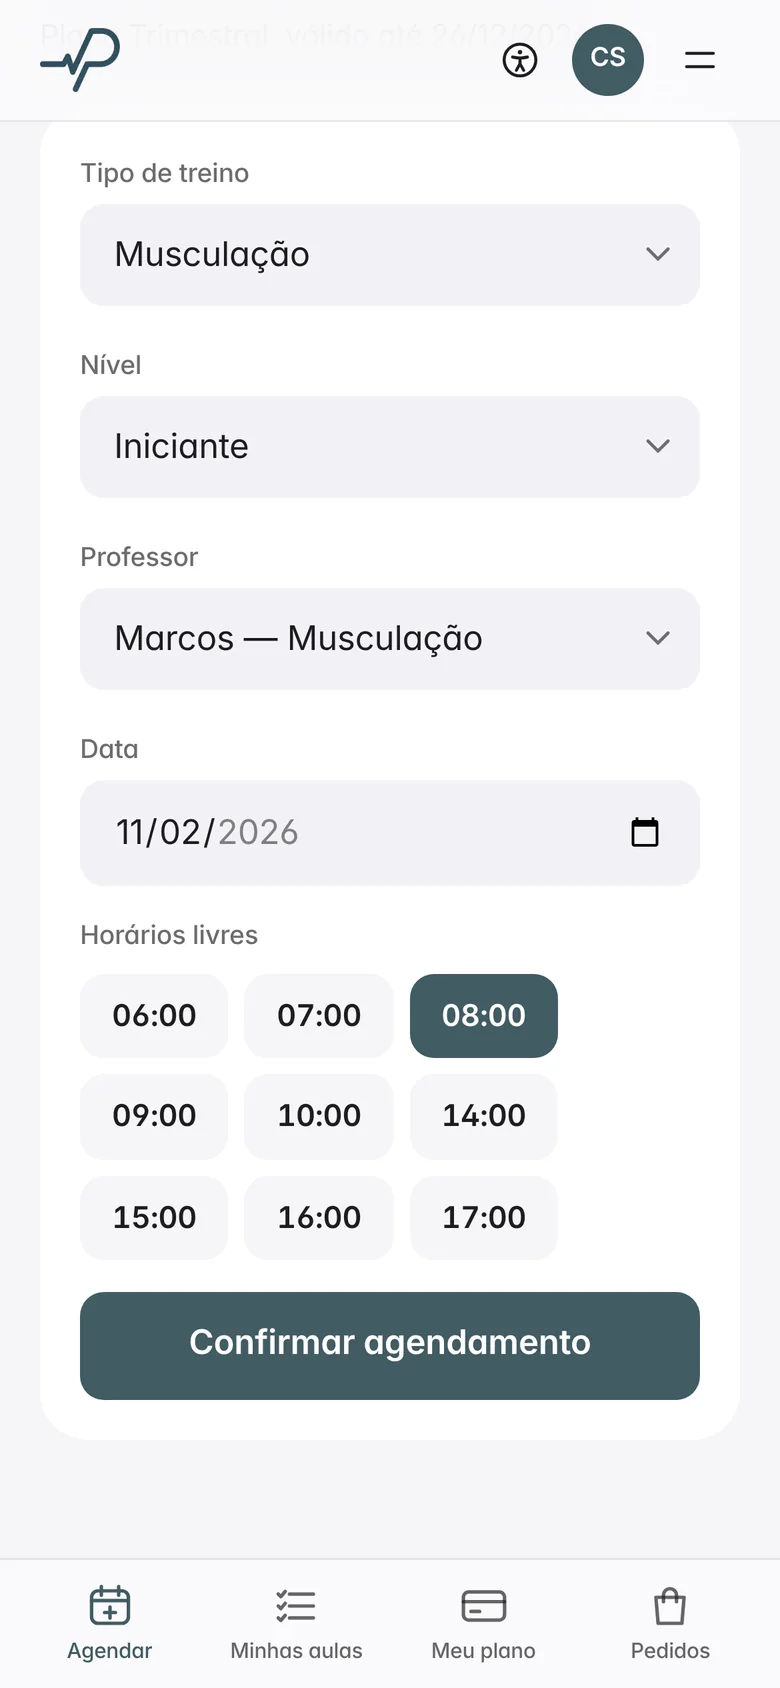
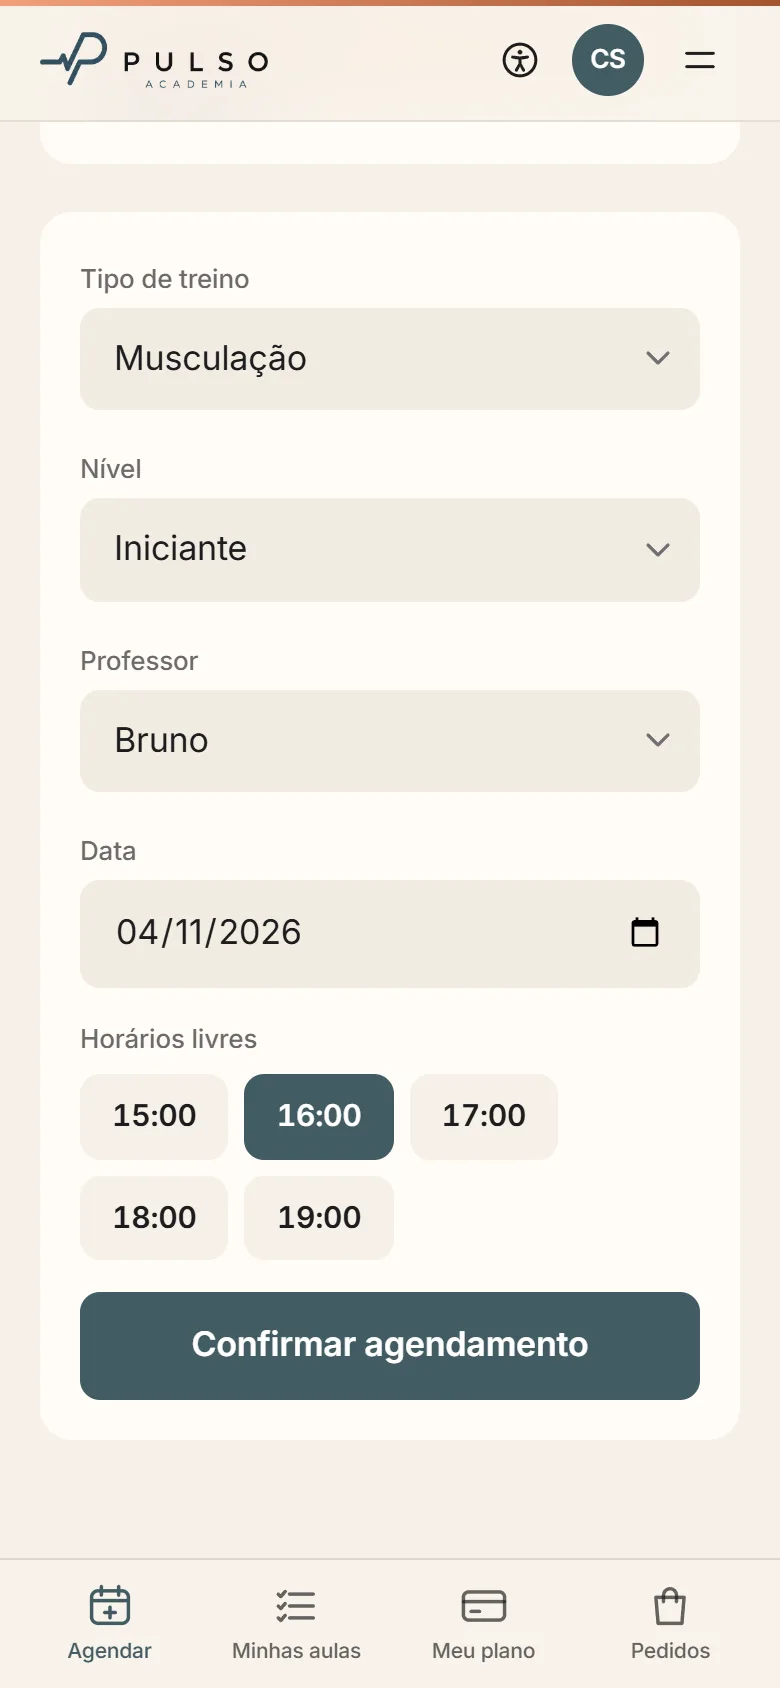
Cores com ritmo de seções e prints novos da Pulso

diff --git a/css/style.css b/css/style.css
@@ -9,23 +9,27 @@
      6. Acessibilidade (movimento reduzido)
    ========================================================= */
 
-/* Layout: página escura de produto (estilo Apple Pro), coluna central de 1120px,
-   seções longas separadas por ar; a chama azul é o único elemento colorido forte. */
+/* Layout: coluna central de 1120px e cor com ritmo: cada seção pinta o próprio fundo
+   (marinho, gelo, azul da marca) para a página não ficar "toda preta" ou "toda branca".
+   Cada tom é só um conjunto de variáveis; os componentes são os mesmos em todas as seções. */
 :root {
   color-scheme: dark;
-  --fundo: #05070D;        /* quase preto azulado, como o quadro da marca */
-  --superficie: #0C111C;   /* cartões e painéis */
-  --superficie-2: #121A2A;
-  --linha: rgba(150, 180, 255, 0.12);
+  --fundo: #0A1222;        /* marinho (no lugar do preto) */
+  --fundo-alt: #0F1A31;
+  --superficie: #14213B;   /* cartões e painéis */
+  --superficie-2: #1B2A48;
+  --linha: rgba(140, 175, 255, 0.16);
   --texto: #F2F5FA;
-  --texto-2: #A3AFC2;      /* secundário: 8,4:1 sobre o fundo */
+  --texto-2: #A9B6CC;      /* secundário: 9,1:1 sobre o fundo */
   --azul: #1D63E0;         /* azul royal da chama; com texto branco passa no contraste AA */
-  --azul-claro: #5FB4FF;   /* texto/links azuis sobre o escuro */
+  --azul-claro: #6CB6FF;   /* texto/links azuis sobre o escuro */
+  --azul-tinta: rgba(60, 140, 255, 0.14);
+  --brilho-abertura: radial-gradient(120% 75% at 50% -12%, #1E4AA8 0%, #142C63 34%, rgba(20, 44, 99, 0) 72%);
   --ciano: #3CC8FF;
   --brasa: #FF8A3D;        /* versão secundária (laranja) da marca, usada só em um detalhe */
   --ok: #7EE0A7;
-  --topo-fundo: rgba(5, 7, 13, 0.72);
-  --topo-fundo-forte: rgba(5, 7, 13, 0.82);
+  --topo-fundo: rgba(10, 18, 34, 0.72);
+  --topo-fundo-forte: rgba(10, 18, 34, 0.85);
   --botao-2: rgba(255, 255, 255, 0.08);
   --borda-campo: transparent;
   --midia-celulares: linear-gradient(160deg, #13203A, #0A1020);
@@ -40,20 +44,23 @@
 }
 
 /* Tema claro: o js/tema.js coloca data-tema="claro" no <html> (escolha salva ou tema do sistema).
-   Contraste AA: texto-2 7,5:1 e azul dos links 6,4:1 sobre o branco. */
+   Contraste AA: texto-2 7,2:1 e azul dos links 5,7:1 sobre o branco-gelo. */
 :root[data-tema="claro"] {
   color-scheme: light;
-  --fundo: #FFFFFF;
-  --superficie: #F3F5F9;
-  --superficie-2: #FFFFFF;
+  --fundo: #F5F8FD;        /* branco-gelo (no lugar do branco puro) */
+  --fundo-alt: #E9EFFA;
+  --superficie: #FFFFFF;
+  --superficie-2: #F5F8FD;
   --linha: rgba(10, 30, 80, 0.12);
   --texto: #0B1220;
-  --texto-2: #4B5563;
+  --texto-2: #475467;
+  --azul-tinta: rgba(29, 99, 224, 0.10);
+  --brilho-abertura: radial-gradient(120% 75% at 50% -12%, #C9DCFF 0%, #E2EBFC 38%, rgba(226, 235, 252, 0) 72%);
   --azul-claro: #1A56C4;
   --brasa: #C2510F;
   --ok: #157347;
-  --topo-fundo: rgba(255, 255, 255, 0.72);
-  --topo-fundo-forte: rgba(255, 255, 255, 0.82);
+  --topo-fundo: rgba(245, 248, 253, 0.75);
+  --topo-fundo-forte: rgba(245, 248, 253, 0.88);
   --botao-2: rgba(10, 30, 80, 0.06);
   --borda-campo: #C5CDDA;
   --midia-celulares: linear-gradient(160deg, #DCE6F7, #C9D6EE);
@@ -111,7 +118,7 @@ body::before { content: ""; position: fixed; inset: 0 0 auto; height: env(safe-a
 @media (max-width: 430px) { :root[data-texto="maior"] .topo nav .botao.pequeno, :root[data-texto="enorme"] .topo nav .botao.pequeno { display: none; } }
 
 /* ---------- Abertura ---------- */
-.abertura { text-align: center; padding-block: 72px 40px; position: relative; overflow: hidden; }
+.abertura { text-align: center; padding-block: 72px 40px; position: relative; overflow: hidden; background: var(--brilho-abertura), var(--fundo); }
 .abertura .chama-wrap { position: relative; width: 170px; margin: 0 auto 36px; }
 .abertura .chama-wrap::before { content: ""; position: absolute; inset: -55% -90%; background: radial-gradient(closest-side, rgba(46, 123, 255, 0.36), rgba(46, 123, 255, 0.12) 45%, rgba(46, 123, 255, 0.04) 70%, rgba(46, 123, 255, 0) 100%); animation: respirar 5s ease-in-out infinite; }
 .abertura .chama { position: relative; width: 170px; height: auto; animation: chama-entra 1.2s cubic-bezier(.2,.8,.2,1) both; }
@@ -127,7 +134,7 @@ body::before { content: ""; position: fixed; inset: 0 0 auto; height: env(safe-a
 .janela { border-radius: 18px; overflow: hidden; background: #fff; box-shadow: var(--sombra-janela); }
 .janela .barra { height: 38px; display: flex; align-items: center; gap: 8px; padding: 0 16px; background: #E9EAEE; }
 .janela .barra i { width: 11px; height: 11px; border-radius: 50%; background: #CFD1D7; }
-.janela .barra span { margin-left: 16px; flex: 1; max-width: 380px; height: 24px; border-radius: 7px; background: #fff; color: #6B7080; font-size: 12px; display: flex; align-items: center; justify-content: center; }
+.janela .barra span { margin-left: 16px; flex: 1; max-width: 380px; height: 24px; border-radius: 7px; background: #fff; color: #4A5060; font-size: 12px; display: flex; align-items: center; justify-content: center; }
 .janela img { width: 100%; height: auto; }
 .celular { width: 240px; border-radius: 40px; padding: 9px; background: #0E0F12; box-shadow: var(--sombra-celular), inset 0 0 0 1.5px #2b2c31; position: relative; }
 .celular img { border-radius: 32px; width: 100%; aspect-ratio: 390 / 844; object-fit: cover; object-position: top; }
@@ -140,15 +147,16 @@ body::before { content: ""; position: fixed; inset: 0 0 auto; height: env(safe-a
 }
 
 /* ---------- Seções ---------- */
-.secao { padding-block: 110px; }
-.secao + .secao { border-top: 1px solid var(--linha); }
-.chamada { color: var(--azul-claro); font-weight: 600; font-size: 17px; margin-bottom: 14px; }
+.secao { padding-block: 110px; background: var(--fundo); color: var(--texto); }
+/* Selo acima dos títulos: pílula com a tinta azul e um pontinho. */
+.chamada { display: inline-flex; align-items: center; gap: 8px; padding: 6px 14px; border-radius: 999px; background: var(--azul-tinta); color: var(--azul-claro); font-weight: 600; font-size: 14px; margin-bottom: 18px; }
+.chamada::before { content: ""; width: 6px; height: 6px; border-radius: 50%; background: currentColor; }
 .secao h2 { font-size: clamp(38px, 5.6vw, 68px); font-weight: 800; max-width: 18ch; }
 .lead { margin-top: 22px; font-size: clamp(19px, 2vw, 23px); line-height: 1.45; color: var(--texto-2); max-width: 60ch; }
 
 /* projeto em destaque */
 .ficha { display: grid; grid-template-columns: repeat(4, minmax(0, 1fr)); gap: 1px; margin-top: 48px; background: var(--linha); border: 1px solid var(--linha); border-radius: var(--raio); overflow: hidden; }
-.ficha div { background: var(--fundo); padding: 22px 24px; min-width: 0; }
+.ficha div { background: var(--superficie); padding: 22px 24px; min-width: 0; }
 .ficha dt { font-size: 13px; color: var(--texto-2); }
 .ficha dd { margin: 4px 0 0; font-size: 17px; font-weight: 600; }
 @media (max-width: 760px) { .ficha { grid-template-columns: repeat(2, minmax(0, 1fr)); } }
@@ -167,7 +175,7 @@ body::before { content: ""; position: fixed; inset: 0 0 auto; height: env(safe-a
 .destaques { display: grid; grid-template-columns: repeat(auto-fit, minmax(230px, 1fr)); gap: 14px 28px; margin-top: 44px; padding: 0; list-style: none; }
 .destaques li { display: flex; gap: 12px; font-size: 16px; color: var(--texto-2); }
 .destaques li strong { color: var(--texto); font-weight: 600; display: block; }
-.destaques svg { flex: none; margin-top: 3px; color: var(--azul-claro); }
+.destaques svg { flex: none; width: 30px; height: 30px; padding: 6px; margin-top: -2px; border-radius: 50%; background: var(--azul-tinta); color: var(--azul-claro); }
 
 .pitch { margin-top: 64px; display: grid; grid-template-columns: minmax(0, 1.6fr) minmax(0, 1fr); gap: 36px; align-items: center; }
 .pitch video { width: 100%; border-radius: 20px; background: #000; box-shadow: 0 0 0 1px var(--linha); }
@@ -178,8 +186,9 @@ body::before { content: ""; position: fixed; inset: 0 0 auto; height: env(safe-a
 
 /* serviços */
 .servicos { display: grid; grid-template-columns: repeat(3, minmax(0, 1fr)); gap: 1px; margin-top: 56px; background: var(--linha); border: 1px solid var(--linha); border-radius: var(--raio); overflow: hidden; }
-.servico { background: var(--fundo); padding: 34px 30px 36px; min-width: 0; }
-.servico svg { color: var(--azul-claro); }
+.servico { background: var(--superficie); padding: 34px 30px 36px; min-width: 0; }
+/* Ícone num bloco com o degradê da marca (o próprio <svg> ganha o fundo e a margem interna). */
+.servico svg { display: block; width: 52px; height: 52px; padding: 11px; border-radius: 15px; color: #fff; background: linear-gradient(140deg, #3A8BFF 0%, #1D63E0 50%, #1243A8 100%); box-shadow: 0 10px 24px rgba(29, 99, 224, 0.32); }
 .servico h3 { margin-top: 18px; font-size: 22px; letter-spacing: -0.02em; }
 .servico p { margin-top: 8px; color: var(--texto-2); font-size: 16px; }
 @media (max-width: 900px) { .servicos { grid-template-columns: repeat(2, minmax(0, 1fr)); } }
@@ -188,7 +197,7 @@ body::before { content: ""; position: fixed; inset: 0 0 auto; height: env(safe-a
 /* processo (sequência real: números fazem sentido) */
 .etapas { list-style: none; padding: 0; margin: 56px 0 0; display: grid; grid-template-columns: repeat(4, minmax(0, 1fr)); gap: 28px; counter-reset: etapa; }
 .etapas li { border-top: 2px solid var(--linha); padding-top: 22px; min-width: 0; }
-.etapas li::before { counter-increment: etapa; content: counter(etapa, decimal-leading-zero); font-family: var(--fonte-marca); font-weight: 600; font-size: 15px; letter-spacing: 0.12em; color: var(--azul-claro); }
+.etapas li::before { counter-increment: etapa; content: counter(etapa, decimal-leading-zero); display: block; font-family: var(--fonte-marca); font-weight: 700; font-size: 34px; line-height: 1; letter-spacing: 0.04em; color: var(--azul-claro); }
 .etapas h3 { margin-top: 12px; font-size: 22px; letter-spacing: -0.02em; }
 .etapas p { margin-top: 8px; color: var(--texto-2); font-size: 16px; }
 .etapas li:first-child { border-top-color: var(--azul); }
@@ -225,9 +234,59 @@ body::before { content: ""; position: fixed; inset: 0 0 auto; height: env(safe-a
 @media (max-width: 900px) { .contato { grid-template-columns: minmax(0, 1fr); } .formulario .linha2 { grid-template-columns: minmax(0, 1fr); } }
 
 /* rodapé */
-.rodape { border-top: 1px solid var(--linha); padding-block: 40px 48px; font-size: 14px; color: var(--texto-2); }
+.rodape { padding-block: 40px 48px; font-size: 14px; color: var(--texto-2); }
 .rodape .miolo { display: flex; flex-wrap: wrap; justify-content: space-between; gap: 20px; align-items: center; }
 .rodape .brasa { color: var(--brasa); }
+
+/* ---------- Tons das seções ----------
+   Só trocam variáveis: os componentes (cartões, selos, ícones) se ajustam sozinhos. */
+.tom-alt { --fundo: var(--fundo-alt); }
+
+/* Serviços: gelo quando o site está escuro; marinho quando está claro. */
+.tom-invertido {
+  color-scheme: light;
+  --fundo: #EAF0FA; --superficie: #FFFFFF; --superficie-2: #F5F8FD;
+  --texto: #0B1220; --texto-2: #475467; --linha: rgba(10, 30, 80, 0.12);
+  --azul-claro: #1A56C4; --azul-tinta: rgba(29, 99, 224, 0.10); --botao-2: rgba(10, 30, 80, 0.06);
+}
+:root[data-tema="claro"] .tom-invertido {
+  color-scheme: dark;
+  --fundo: #0B1427; --superficie: #132039; --superficie-2: #1B2A48;
+  --texto: #F2F5FA; --texto-2: #A9B6CC; --linha: rgba(140, 175, 255, 0.16);
+  --azul-claro: #6CB6FF; --azul-tinta: rgba(60, 140, 255, 0.14); --botao-2: rgba(255, 255, 255, 0.08);
+}
+
+/* Processo e o painel do contato: o azul da marca em degradê, com um brilho claro no canto.
+   Texto branco: 5,5:1 ou mais em qualquer ponto do degradê. */
+.tom-azul, .contato {
+  color-scheme: dark;
+  --texto: #FFFFFF; --texto-2: #E6EEFF; --linha: rgba(255, 255, 255, 0.26);
+  --azul-claro: #FFFFFF; --azul-tinta: rgba(255, 255, 255, 0.16); --botao-2: rgba(255, 255, 255, 0.16);
+  background: radial-gradient(55% 70% at 100% 0%, rgba(140, 190, 255, 0.12), rgba(140, 190, 255, 0) 70%), linear-gradient(135deg, #0A2A78 0%, #1446B4 55%, #1A55CA 100%);
+  color: var(--texto);
+}
+.tom-azul .etapas li:first-child { border-top-color: #FFFFFF; }
+
+/* Contato: o bloco interno vira um painel azul; o formulário fica num cartão branco. */
+.contato { border-radius: 32px; padding: 56px; }
+.contato h2 { font-size: clamp(36px, 4.4vw, 56px); }
+.contato .canais a { text-decoration: underline; text-underline-offset: 3px; }
+.contato .formulario {
+  color-scheme: light;
+  --texto: #0B1220; --texto-2: #475467; --superficie-2: #F5F8FD; --borda-campo: #C5CDDA;
+  --azul-claro: #1A56C4; --ok: #157347;
+  background: #FFFFFF; color: var(--texto); box-shadow: 0 30px 70px rgba(5, 20, 60, 0.28);
+}
+@media (max-width: 760px) { .contato { padding: 36px 20px; border-radius: 26px; } .contato .formulario { padding: 22px 18px; } }
+
+/* Rodapé sempre marinho, nos dois temas. */
+.rodape {
+  color-scheme: dark;
+  --texto: #F2F5FA; --texto-2: #A9B6CC; --azul-claro: #6CB6FF; --linha: rgba(140, 175, 255, 0.16); --brasa: #FF8A3D;
+  background: #070D1A;
+}
+:root[data-tema="claro"] .rodape { background: #0B1427; }
+.rodape .marca { color: var(--texto); }
 
 /* ---------- Animações ---------- */
 .abertura .lema, .abertura h1, .abertura .sub, .abertura .acoes, .abertura .vitrine { animation: sobe-suave .8s cubic-bezier(.2, .8, .2, 1) both; }
@@ -249,7 +308,7 @@ body::before { content: ""; position: fixed; inset: 0 0 auto; height: env(safe-a
   .entrega .midia img { transition: transform .5s ease; }
   .entrega:hover .midia:not(.celulares) img { transform: scale(1.03); }
   .servico { transition: background-color .2s ease; }
-  .servico:hover { background: var(--superficie); }
+  .servico:hover { background: var(--superficie-2); }
   .valores li { transition: padding-left .2s ease; }
   .valores li:hover { padding-left: 6px; }
 }
@@ -282,6 +341,8 @@ body::before { content: ""; position: fixed; inset: 0 0 auto; height: env(safe-a
 body { zoom: var(--escala); }
 :root[data-contraste="alto"] { --texto-2: var(--texto); --linha: rgba(150, 180, 255, .5); }
 :root[data-contraste="alto"][data-tema="claro"] { --linha: rgba(10, 30, 80, .5); }
+:root[data-contraste="alto"] :is(.tom-invertido, .tom-azul, .contato, .contato .formulario, .rodape) { --texto-2: var(--texto); }
+:root[data-contraste="alto"] .tom-azul, :root[data-contraste="alto"] .contato { --linha: rgba(255, 255, 255, .6); }
 :root[data-contraste="alto"] a:not(.botao):not(.marca), :root[data-contraste="alto"] .topo nav a:not(.botao) { text-decoration: underline; text-underline-offset: 3px; }
 :root[data-contraste="alto"] .formulario input, :root[data-contraste="alto"] .formulario select, :root[data-contraste="alto"] .formulario textarea { border-color: var(--texto); }
 

diff --git a/index.html b/index.html
@@ -5,12 +5,12 @@
   <meta name="viewport" content="width=device-width, initial-scale=1, viewport-fit=cover">
   <title>True Ember</title>
   <meta name="description" content="True Ember: sites, sistemas e aplicativos sob medida. Conheça a Pulso Academia, nosso projeto mais recente.">
-  <meta name="theme-color" content="#05070D">
+  <meta name="theme-color" content="#0A1222">
   <meta property="og:title" content="True Ember">
   <meta property="og:description" content="Tecnologia que acende soluções. Sites, sistemas e aplicativos sob medida.">
   <meta property="og:type" content="website">
   <meta property="og:url" content="https://true-ember.netlify.app">
-  <meta property="og:image" content="https://true-ember.netlify.app/assets/pulso/home-topo.webp">
+  <meta property="og:image" content="https://true-ember.netlify.app/assets/pulso/home-topo.webp?v=3">
   <link rel="icon" href="favicon.ico" sizes="any">
   <link rel="icon" type="image/png" sizes="32x32" href="assets/img/favicon-32.png">
   <link rel="apple-touch-icon" href="assets/img/apple-touch-icon.png">
@@ -62,9 +62,9 @@
         <div class="vitrine" aria-hidden="true">
           <div class="janela">
             <div class="barra"><i></i><i></i><i></i><span>pulso-academia</span></div>
-            <img src="assets/pulso/home-topo.webp" alt="" width="1600" height="1000">
+            <img src="assets/pulso/home-topo.webp?v=3" alt="" width="1600" height="1000">
           </div>
-          <div class="celular"><img src="assets/pulso/aluno-agendar.webp" alt="" width="780" height="1688"></div>
+          <div class="celular"><img src="assets/pulso/aluno-agendar.webp?v=3" alt="" width="780" height="1688"></div>
         </div>
       </div>
     </section>
@@ -85,18 +85,18 @@
 
         <div class="entregas">
           <article class="entrega">
-            <div class="midia"><img src="assets/pulso/loja-produto.webp" alt="Loja da Pulso com a tela de detalhes de um produto" loading="lazy" width="1600" height="1000"></div>
+            <div class="midia"><img src="assets/pulso/loja-produto.webp?v=3" alt="Loja da Pulso com a tela de detalhes de um produto" loading="lazy" width="1600" height="1000"></div>
             <div class="texto"><h3>Loja com pagamento</h3><p>Planos e produtos com fotos, detalhes, carrinho, cupom e pagamento por Pix, cartão ou boleto.</p></div>
           </article>
           <article class="entrega">
             <div class="midia celulares">
-              <img src="assets/pulso/aluno-aulas.webp" alt="Área do aluno: lista de aulas agendadas" loading="lazy" width="780" height="1688">
-              <img src="assets/pulso/prof-agenda.webp" alt="Área do professor: agenda do dia" loading="lazy" width="780" height="1688">
+              <img src="assets/pulso/aluno-aulas.webp?v=3" alt="Área do aluno: lista de aulas agendadas" loading="lazy" width="780" height="1688">
+              <img src="assets/pulso/prof-agenda.webp?v=3" alt="Área do professor: agenda do dia" loading="lazy" width="780" height="1688">
             </div>
             <div class="texto"><h3>Aluno e professor no celular</h3><p>O aluno agenda aulas e acompanha o plano. O professor vê a agenda e define seus horários. Instala como app.</p></div>
           </article>
           <article class="entrega">
-            <div class="midia"><img src="assets/pulso/admin-geral.webp" alt="Painel da recepção com indicadores e atendimentos do dia" loading="lazy" width="1600" height="1000"></div>
+            <div class="midia"><img src="assets/pulso/admin-geral.webp?v=3" alt="Painel da recepção com indicadores e atendimentos do dia" loading="lazy" width="1600" height="1000"></div>
             <div class="texto"><h3>Painel da recepção</h3><p>Alunos, planos, professores, agendamentos, pagamentos e pedidos de cancelamento em um só lugar.</p></div>
           </article>
         </div>
@@ -177,7 +177,7 @@
     </section>
 
     <!-- SERVIÇOS -->
-    <section class="secao faixa" id="servicos" aria-labelledby="titulo-servicos">
+    <section class="secao faixa tom-invertido" id="servicos" aria-labelledby="titulo-servicos">
       <div class="miolo">
         <p class="chamada">O que fazemos</p>
         <h2 id="titulo-servicos">Do site ao sistema completo.</h2>
@@ -212,7 +212,7 @@
     </section>
 
     <!-- PROCESSO -->
-    <section class="secao faixa" id="processo" aria-labelledby="titulo-processo">
+    <section class="secao faixa tom-azul" id="processo" aria-labelledby="titulo-processo">
       <div class="miolo">
         <p class="chamada">Como trabalhamos</p>
         <h2 id="titulo-processo">Quatro etapas, sem surpresa.</h2>
@@ -226,7 +226,7 @@
     </section>
 
     <!-- SOBRE -->
-    <section class="secao faixa" id="sobre" aria-labelledby="titulo-sobre">
+    <section class="secao faixa tom-alt" id="sobre" aria-labelledby="titulo-sobre">
       <div class="miolo sobre">
         <div>
           <p class="chamada">Quem somos</p>

diff --git a/css/obrigado.css b/css/obrigado.css
@@ -1,7 +1,10 @@
 /* True Ember — página "Mensagem enviada" (depois do formulário). Segue o tema escolhido no site (js/tema.js). */
-:root { color-scheme: dark; --fundo: #05070D; --texto: #F2F5FA; --texto-2: #A3AFC2; --foco: #5FB4FF; }
-:root[data-tema="claro"] { color-scheme: light; --fundo: #FFFFFF; --texto: #0B1220; --texto-2: #4B5563; --foco: #1A56C4; }
-body { margin: 0; min-height: 100vh; display: grid; place-items: center; padding: 24px; background: var(--fundo); color: var(--texto); font-family: -apple-system, BlinkMacSystemFont, Inter, 'Segoe UI', sans-serif; text-align: center; }
+:root { color-scheme: dark; --fundo: #0A1222; --texto: #F2F5FA; --texto-2: #A9B6CC; --foco: #6CB6FF;
+  --brilho: radial-gradient(120% 75% at 50% -12%, #1E4AA8 0%, #142C63 34%, rgba(20, 44, 99, 0) 72%); }
+:root[data-tema="claro"] { color-scheme: light; --fundo: #F5F8FD; --texto: #0B1220; --texto-2: #475467; --foco: #1A56C4;
+  --brilho: radial-gradient(120% 75% at 50% -12%, #C9DCFF 0%, #E2EBFC 38%, rgba(226, 235, 252, 0) 72%); }
+html { background: var(--fundo); }
+body { margin: 0; min-height: 100vh; display: grid; place-items: center; padding: 24px; background: var(--brilho), var(--fundo); color: var(--texto); font-family: -apple-system, BlinkMacSystemFont, Inter, 'Segoe UI', sans-serif; text-align: center; }
 img { width: 90px; margin: 0 auto 28px; display: block; }
 h1 { font-size: clamp(34px, 6vw, 56px); letter-spacing: -0.04em; margin: 0; }
 p { color: var(--texto-2); font-size: 19px; margin: 14px 0 30px; }

diff --git a/obrigado.html b/obrigado.html
@@ -5,7 +5,7 @@
   <meta name="viewport" content="width=device-width, initial-scale=1">
   <title>Mensagem enviada · True Ember</title>
   <link rel="icon" href="favicon.ico" sizes="any">
-  <meta name="theme-color" content="#05070D">
+  <meta name="theme-color" content="#0A1222">
   <link rel="stylesheet" href="https://fonts.googleapis.com/css2?family=Inter:wght@400;600;800&display=swap">
   <link rel="stylesheet" href="css/obrigado.css">
   <script src="js/tema.js"></script>

diff --git a/js/tema.js b/js/tema.js
@@ -20,7 +20,7 @@
   function aplicarTema(tema) {
     raiz.dataset.tema = tema;
     const meta = document.querySelector('meta[name="theme-color"]');
-    if (meta) meta.content = tema === 'claro' ? '#FFFFFF' : '#05070D';
+    if (meta) meta.content = tema === 'claro' ? '#F5F8FD' : '#0A1222';
     const botao = document.getElementById('botaoTema');
     if (botao) {
       const rotulo = tema === 'claro' ? 'Mudar para o tema escuro' : 'Mudar para o tema claro';
